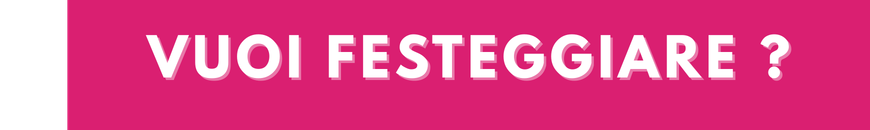
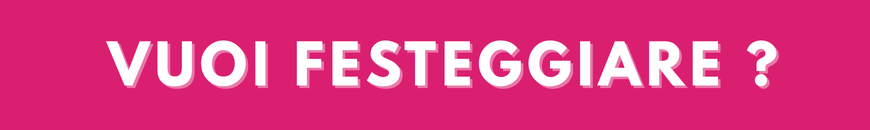
Aggiorna il colore di sovrapposizione del componente hero e sostituisci l'immagine di sfondo

Changed region(s): [[0.1241, 0.2462, 0.931, 0.7077], [0.0, 0.0, 0.0931, 1.0]]

diff --git a/app/components/hero.css b/app/components/hero.css
@@ -342,7 +342,7 @@ html:not(.pn-nav-scrolled) .hero-cta{
   .hero-overlay{
     background:
       linear-gradient(90deg,
-        rgba(0,0,0,.38) 0%,
+        rgba(0,0,0,.22) 0%,
         rgba(0,0,0,.24) 42%,
         rgba(0,0,0,.10) 75%,
         rgba(0,0,0,.04) 100%
